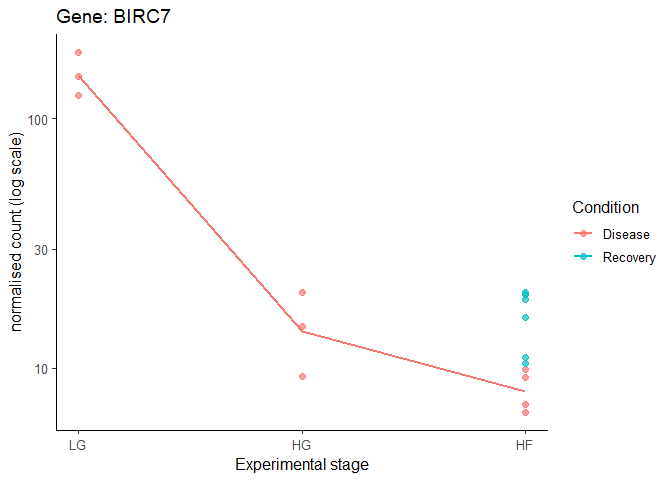
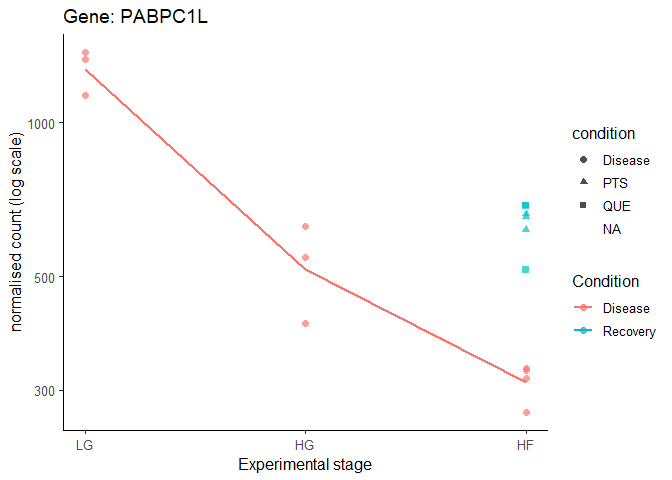
update

diff --git a/rmd_reports/ribodepleted_DEGs.md b/rmd_reports/ribodepleted_DEGs.md
@@ -912,7 +912,7 @@ recovery_general[, recovery := ifelse(genes %in% genes_rec_down, "Down", "Up")]
 ## ------------------------------------------
 ## 1. pick the most significant “recovery” gene
 ## ------------------------------------------
-gene_id <- genes_rec_up[20]
+gene_id <- genes_rec_up[19]
 # gene_id <- genes_rec_down[36]
 
 ## ------------------------------------------
@@ -920,22 +920,24 @@ gene_id <- genes_rec_up[20]
 ## ------------------------------------------
 fiss <- plotCounts(
   dds, gene_id,
-  intgroup = c("recovery", "time_num"),   # columns in colData(dds)
+  intgroup = c("recovery", "time_num", "condition"),   # columns in colData(dds)
   returnData = TRUE
 )
 
+fiss <- as.data.table(fiss)
 ## turn the numeric time into 0,1,2 for nicer axis labels
-fiss$time_stage <- as.numeric(as.character(fiss$time_num))  
+fiss[, condition := ifelse(condition == "PTS", "PTS", ifelse(condition == "QUE", "QUE", "Disease"))]
 
 ## ------------------------------------------
 ## 3. plot
 ## ------------------------------------------
 
 ggplot(fiss,
-       aes(x = time_stage,
+       aes(x = time_num,
            y = count,
            colour = recovery,
-           group  = recovery)) +
+           group  = recovery,
+           shape  = condition)) +
   geom_point(size = 2, alpha = 0.7) +
   stat_summary(fun = mean, geom = "line", linewidth = 1) +
   scale_x_continuous(
